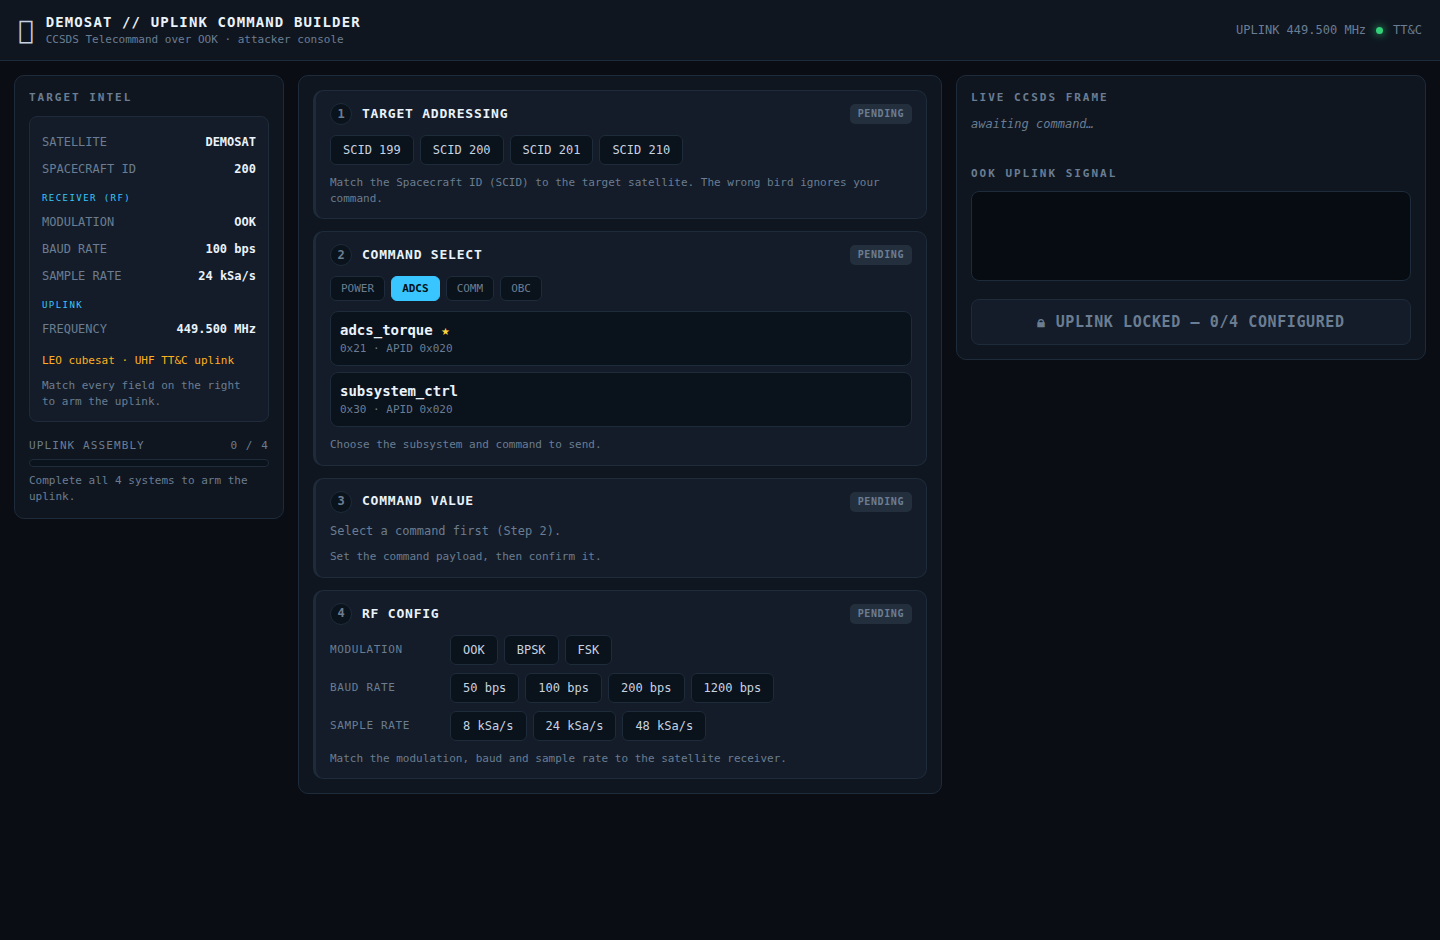
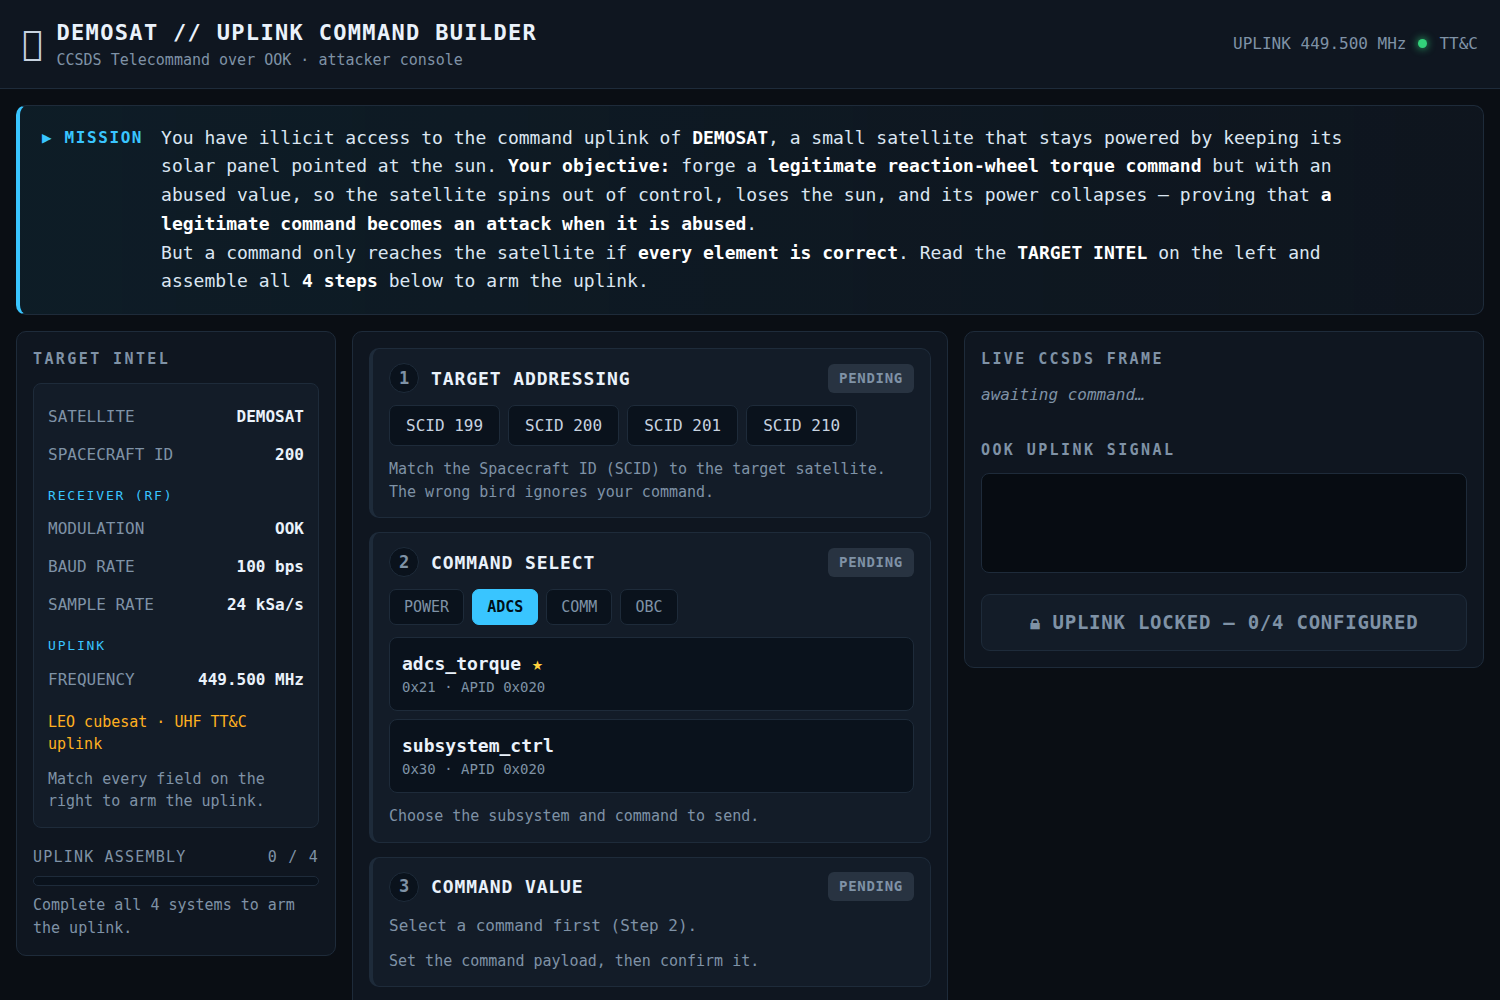
UPDATE 생성기 화면: 전체 글자 크기 확대 및 미션 브리핑 스타일

diff --git a/scenario2-uplink-attack/packet-generator/webapp/static/style.css b/scenario2-uplink-attack/packet-generator/webapp/static/style.css
@@ -1,137 +1,145 @@
 :root{
   --bg:#0a0e14; --panel:#0f1620; --panel2:#131c28; --line:#1e2b3a;
-  --ink:#c7d3e0; --dim:#6b7d92; --accent:#39c5ff; --amber:#ffb020;
+  --ink:#c7d3e0; --dim:#7f92a6; --accent:#39c5ff; --amber:#ffb020;
   --danger:#ff3b4e; --ok:#33d17a; --star:#ffd23f;
   --f-pre:#5a6b7d; --f-tc:#39c5ff; --f-sp:#8a7dff; --f-op:#33d17a;
   --f-pl:#ffb020; --f-crc:#ff6ad5;
   --mono:'SFMono-Regular',ui-monospace,'Cascadia Code','Consolas',monospace;
 }
 *{box-sizing:border-box}
-body{margin:0;background:var(--bg);color:var(--ink);font-family:var(--mono);font-size:14px;line-height:1.4}
-h2{font-size:11px;letter-spacing:.18em;color:var(--dim);margin:0 0 10px;font-weight:600}
+body{margin:0;background:var(--bg);color:var(--ink);font-family:var(--mono);font-size:18px;line-height:1.5}
+h2{font-size:15px;letter-spacing:.16em;color:var(--dim);margin:0 0 12px;font-weight:700}
 .hidden{display:none!important}
-.muted{color:var(--dim);font-size:12px}
+.muted{color:var(--dim);font-size:16px}
 
 .topbar{display:flex;justify-content:space-between;align-items:center;
-  padding:12px 18px;border-bottom:1px solid var(--line);background:var(--panel)}
-.brand{display:flex;gap:12px;align-items:center}
-.sat{font-size:26px}
-.title{font-weight:700;letter-spacing:.08em;color:#eaf2fb}
-.sub{font-size:11px;color:var(--dim)}
-.linkinfo{display:flex;gap:10px;align-items:center;font-size:12px;color:var(--dim)}
-.linkinfo .dot{width:7px;height:7px;border-radius:50%;background:var(--ok);box-shadow:0 0 8px var(--ok)}
+  padding:16px 22px;border-bottom:1px solid var(--line);background:var(--panel)}
+.brand{display:flex;gap:14px;align-items:center}
+.sat{font-size:34px}
+.title{font-weight:700;letter-spacing:.06em;color:#eaf2fb;font-size:22px}
+.sub{font-size:15px;color:var(--dim)}
+.linkinfo{display:flex;gap:12px;align-items:center;font-size:16px;color:var(--dim)}
+.linkinfo .dot{width:9px;height:9px;border-radius:50%;background:var(--ok);box-shadow:0 0 8px var(--ok)}
 
-.grid{display:grid;grid-template-columns:270px 1fr 470px;gap:14px;padding:14px;align-items:start}
-.panel{background:var(--panel);border:1px solid var(--line);border-radius:10px;padding:14px}
+/* ── MISSION briefing ── */
+.mission{display:flex;gap:18px;align-items:flex-start;margin:16px 16px 0;padding:18px 22px;
+  background:linear-gradient(90deg,rgba(57,197,255,.08),rgba(19,28,40,.5));
+  border:1px solid var(--line);border-left:4px solid var(--accent);border-radius:10px}
+.mtag{font-size:16px;font-weight:800;letter-spacing:.1em;color:var(--accent);white-space:nowrap;padding-top:2px}
+.mtext{font-size:18px;line-height:1.6;color:#dbe6f2;max-width:1200px}
+.mtext b{color:#fff}
+
+.grid{display:grid;grid-template-columns:320px 1fr 520px;gap:16px;padding:16px;align-items:start}
+.panel{background:var(--panel);border:1px solid var(--line);border-radius:10px;padding:16px}
 
 /* ── TARGET INTEL dossier ── */
-.dossier{background:var(--panel2);border:1px solid var(--line);border-radius:8px;padding:12px}
-.drow{display:flex;justify-content:space-between;padding:5px 0;font-size:12px}
+.dossier{background:var(--panel2);border:1px solid var(--line);border-radius:8px;padding:14px}
+.drow{display:flex;justify-content:space-between;padding:7px 0;font-size:16px}
 .drow span{color:var(--dim)} .drow b{color:#eaf2fb}
-.dsep{margin:10px 0 4px;font-size:9px;letter-spacing:.16em;color:var(--accent)}
-.dnote{margin-top:10px;font-size:11px;color:var(--amber)}
+.dsep{margin:12px 0 5px;font-size:13px;letter-spacing:.14em;color:var(--accent)}
+.dnote{margin-top:12px;font-size:15px;color:var(--amber)}
 .dnote.dim{color:var(--dim)}
-.progresswrap{margin-top:16px}
-.prow{display:flex;justify-content:space-between;font-size:11px;color:var(--dim);letter-spacing:.1em}
-.prail{height:8px;background:#0a121c;border:1px solid var(--line);border-radius:5px;margin:6px 0;overflow:hidden}
+.progresswrap{margin-top:18px}
+.prow{display:flex;justify-content:space-between;font-size:15px;color:var(--dim);letter-spacing:.08em}
+.prail{height:10px;background:#0a121c;border:1px solid var(--line);border-radius:6px;margin:8px 0;overflow:hidden}
 .prail > i{display:block;height:100%;width:0;background:linear-gradient(90deg,var(--accent),var(--ok));transition:.3s}
-.phint{font-size:11px;color:var(--dim)}
+.phint{font-size:15px;color:var(--dim)}
 
 /* ── step cards ── */
-.steps #stepList{display:flex;flex-direction:column;gap:12px}
-.step{border:1px solid var(--line);border-radius:10px;padding:12px 14px;background:var(--panel2);
-  border-left:3px solid var(--line)}
+.steps #stepList{display:flex;flex-direction:column;gap:14px}
+.step{border:1px solid var(--line);border-radius:10px;padding:14px 16px;background:var(--panel2);
+  border-left:4px solid var(--line)}
 .step.done{border-left-color:var(--ok)}
 .step.mismatch{border-left-color:var(--danger)}
-.shead{display:flex;align-items:center;gap:10px;margin-bottom:10px}
-.snum{width:22px;height:22px;border-radius:50%;background:#0a121c;border:1px solid var(--line);
-  display:flex;align-items:center;justify-content:center;font-size:12px;font-weight:700;color:var(--dim)}
+.shead{display:flex;align-items:center;gap:12px;margin-bottom:12px}
+.snum{width:30px;height:30px;border-radius:50%;background:#0a121c;border:1px solid var(--line);
+  display:flex;align-items:center;justify-content:center;font-size:17px;font-weight:700;color:var(--dim)}
 .step.done .snum{background:var(--ok);color:#001018;border-color:var(--ok)}
 .step.mismatch .snum{background:var(--danger);color:#fff;border-color:var(--danger)}
-.stitle{flex:1;font-weight:700;letter-spacing:.06em;color:#eaf2fb;font-size:13px}
-.pill{font-size:10px;padding:3px 8px;border-radius:5px;letter-spacing:.06em;font-weight:700}
-.pill.pending{background:rgba(107,125,146,.2);color:var(--dim)}
-.pill.ok{background:rgba(51,209,122,.16);color:var(--ok)}
-.pill.bad{background:rgba(255,59,78,.18);color:var(--danger)}
-.sprompt{margin-top:10px;font-size:11px;color:var(--dim)}
+.stitle{flex:1;font-weight:700;letter-spacing:.05em;color:#eaf2fb;font-size:18px}
+.pill{font-size:14px;padding:4px 11px;border-radius:6px;letter-spacing:.05em;font-weight:700}
+.pill.pending{background:rgba(127,146,166,.2);color:var(--dim)}
+.pill.ok{background:rgba(51,209,122,.18);color:var(--ok)}
+.pill.bad{background:rgba(255,59,78,.2);color:var(--danger)}
+.sprompt{margin-top:12px;font-size:15px;color:var(--dim)}
 
 /* chips (SCID / RF options) */
-.chips{display:flex;flex-wrap:wrap;gap:6px}
-.chip{padding:7px 12px;border:1px solid var(--line);border-radius:6px;background:#0a121c;
-  color:var(--ink);font-family:var(--mono);font-size:12px;cursor:pointer}
+.chips{display:flex;flex-wrap:wrap;gap:8px}
+.chip{padding:10px 16px;border:1px solid var(--line);border-radius:7px;background:#0a121c;
+  color:var(--ink);font-family:var(--mono);font-size:16px;cursor:pointer}
 .chip:hover{border-color:var(--accent)}
 .chip.sel{background:var(--accent);color:#001018;border-color:var(--accent);font-weight:700}
-.rfrow{display:flex;align-items:center;gap:10px;margin-bottom:8px}
-.rflabel{width:110px;font-size:11px;color:var(--dim);letter-spacing:.06em}
+.rfrow{display:flex;align-items:center;gap:12px;margin-bottom:10px}
+.rflabel{width:130px;font-size:15px;color:var(--dim);letter-spacing:.05em}
 
 /* command catalog (step 2) */
-.tabs{display:flex;flex-wrap:wrap;gap:6px;margin-bottom:10px}
-.tab{padding:5px 10px;border:1px solid var(--line);border-radius:6px;cursor:pointer;font-size:11px;
+.tabs{display:flex;flex-wrap:wrap;gap:8px;margin-bottom:12px}
+.tab{padding:8px 14px;border:1px solid var(--line);border-radius:7px;cursor:pointer;font-size:15px;
   color:var(--dim);background:#0a121c;font-family:var(--mono)}
 .tab.active{color:#001018;background:var(--accent);border-color:var(--accent);font-weight:700}
-.cmdlist{display:flex;flex-direction:column;gap:6px}
-.cmd{padding:9px;border:1px solid var(--line);border-radius:8px;cursor:pointer;background:#0a121c}
+.cmdlist{display:flex;flex-direction:column;gap:8px}
+.cmd{padding:12px;border:1px solid var(--line);border-radius:8px;cursor:pointer;background:#0a121c}
 .cmd:hover{border-color:var(--accent)}
 .cmd.sel{border-color:var(--accent);box-shadow:inset 0 0 0 1px var(--accent)}
-.cmd .n{font-weight:700;color:#eaf2fb} .cmd .o{font-size:11px;color:var(--dim)}
+.cmd .n{font-weight:700;color:#eaf2fb;font-size:18px} .cmd .o{font-size:14px;color:var(--dim)}
 .star{color:var(--star)}
 
 /* value (step 3) */
-.vhead{font-size:15px;font-weight:700;color:#eaf2fb;margin-bottom:4px}
-.fields{margin-top:14px;display:flex;flex-direction:column;gap:18px}
-.field .flabel{display:flex;justify-content:space-between;margin-bottom:6px}
-.field .fk{color:var(--accent)} .field .fv{font-size:20px;font-weight:700;color:#eaf2fb}
+.vhead{font-size:20px;font-weight:700;color:#eaf2fb;margin-bottom:5px}
+.fields{margin-top:16px;display:flex;flex-direction:column;gap:20px}
+.field .flabel{display:flex;justify-content:space-between;margin-bottom:8px}
+.field .fk{color:var(--accent);font-size:16px} .field .fv{font-size:28px;font-weight:700;color:#eaf2fb}
 .field .fv.bad{color:var(--danger)}
-input[type=range]{width:100%;-webkit-appearance:none;height:8px;border-radius:5px;outline:none;background:#0a121c}
-input[type=range]::-webkit-slider-thumb{-webkit-appearance:none;width:20px;height:20px;border-radius:50%;
-  background:#eaf2fb;border:3px solid var(--accent);cursor:pointer}
-.zonebar{display:flex;height:6px;border-radius:4px;overflow:hidden;margin-top:6px}
+input[type=range]{width:100%;-webkit-appearance:none;height:10px;border-radius:6px;outline:none;background:#0a121c}
+input[type=range]::-webkit-slider-thumb{-webkit-appearance:none;width:26px;height:26px;border-radius:50%;
+  background:#eaf2fb;border:4px solid var(--accent);cursor:pointer}
+.zonebar{display:flex;height:8px;border-radius:5px;overflow:hidden;margin-top:8px}
 .zone-safe{background:var(--ok)}.zone-danger{background:var(--danger)}
-.ticks{display:flex;justify-content:space-between;font-size:10px;color:var(--dim);margin-top:4px}
-input[type=number]{background:#0a121c;border:1px solid var(--line);color:#eaf2fb;padding:8px;border-radius:6px;
-  font-family:var(--mono);width:120px;font-size:16px}
-.toggle{display:inline-flex;gap:8px;align-items:center;cursor:pointer}
-.toggle .sw{width:44px;height:24px;border-radius:12px;background:var(--line);position:relative;transition:.15s}
-.toggle .sw::after{content:'';position:absolute;top:3px;left:3px;width:18px;height:18px;border-radius:50%;background:#eaf2fb;transition:.15s}
-.toggle.on .sw{background:var(--ok)}.toggle.on .sw::after{left:23px}
-.confirm{margin-top:14px;padding:9px 16px;border:1px solid var(--accent);border-radius:7px;background:transparent;
-  color:var(--accent);font-family:var(--mono);font-weight:700;cursor:pointer}
+.ticks{display:flex;justify-content:space-between;font-size:14px;color:var(--dim);margin-top:5px}
+input[type=number]{background:#0a121c;border:1px solid var(--line);color:#eaf2fb;padding:10px;border-radius:7px;
+  font-family:var(--mono);width:150px;font-size:20px}
+.toggle{display:inline-flex;gap:10px;align-items:center;cursor:pointer;font-size:16px}
+.toggle .sw{width:52px;height:28px;border-radius:14px;background:var(--line);position:relative;transition:.15s}
+.toggle .sw::after{content:'';position:absolute;top:3px;left:3px;width:22px;height:22px;border-radius:50%;background:#eaf2fb;transition:.15s}
+.toggle.on .sw{background:var(--ok)}.toggle.on .sw::after{left:27px}
+.confirm{margin-top:16px;padding:11px 20px;border:1px solid var(--accent);border-radius:8px;background:transparent;
+  color:var(--accent);font-family:var(--mono);font-weight:700;font-size:16px;cursor:pointer}
 .confirm:hover{background:rgba(57,197,255,.12)}
 .confirm.done{background:var(--ok);border-color:var(--ok);color:#001018}
-.danger{margin-top:14px;padding:10px;border:1px solid var(--danger);border-radius:8px;
-  background:rgba(255,59,78,.1);color:#ff9aa5;font-weight:700;font-size:12px;animation:pulse 1.1s infinite}
+.danger{margin-top:16px;padding:12px;border:1px solid var(--danger);border-radius:8px;
+  background:rgba(255,59,78,.1);color:#ff9aa5;font-weight:700;font-size:16px;animation:pulse 1.1s infinite}
 @keyframes pulse{50%{box-shadow:0 0 16px rgba(255,59,78,.5)}}
-.effect{margin-top:12px;padding:10px;border-left:3px solid var(--amber);background:#0a121c;
-  border-radius:0 8px 8px 0;font-size:12px}
+.effect{margin-top:14px;padding:12px;border-left:4px solid var(--amber);background:#0a121c;
+  border-radius:0 8px 8px 0;font-size:16px}
 .effect b{color:var(--amber)}
 
 /* frame breakdown */
-.breakdown{display:flex;flex-wrap:wrap;gap:6px;min-height:40px}
-.await{color:var(--dim);font-size:12px;font-style:italic}
-.seg{border:1px solid var(--line);border-radius:8px;padding:7px 8px;background:var(--panel2)}
-.seg .sl{font-size:9px;letter-spacing:.06em;color:var(--dim);margin-bottom:5px;white-space:nowrap;text-transform:uppercase}
-.seg .bytes{display:flex;gap:4px}
-.byte{font-size:12px;padding:3px 5px;border-radius:4px;background:#0a121c;color:#eaf2fb;cursor:default;border-bottom:2px solid transparent}
+.breakdown{display:flex;flex-wrap:wrap;gap:8px;min-height:44px}
+.await{color:var(--dim);font-size:16px;font-style:italic}
+.seg{border:1px solid var(--line);border-radius:8px;padding:9px 10px;background:var(--panel2)}
+.seg .sl{font-size:12px;letter-spacing:.05em;color:var(--dim);margin-bottom:6px;white-space:nowrap;text-transform:uppercase}
+.seg .bytes{display:flex;gap:5px}
+.byte{font-size:16px;padding:4px 7px;border-radius:5px;background:#0a121c;color:#eaf2fb;cursor:default;border-bottom:3px solid transparent}
 .f-preamble .byte{border-color:var(--f-pre)} .f-preamble .sl{color:var(--f-pre)}
 .f-tc_header .byte{border-color:var(--f-tc)} .f-tc_header .sl{color:var(--f-tc)}
 .f-sp_header .byte{border-color:var(--f-sp)} .f-sp_header .sl{color:var(--f-sp)}
 .f-opcode .byte{border-color:var(--f-op)} .f-opcode .sl{color:var(--f-op)}
 .f-payload .byte{border-color:var(--f-pl)} .f-payload .sl{color:var(--f-pl)}
 .f-crc .byte{border-color:var(--f-crc)} .f-crc .sl{color:var(--f-crc)}
-.metaline{margin-top:10px;font-size:11px;color:var(--dim)}
+.metaline{margin-top:12px;font-size:15px;color:var(--dim)}
 
-#wave{width:100%;height:90px;background:#070c12;border:1px solid var(--line);border-radius:8px;margin-bottom:12px}
+#wave{width:100%;height:100px;background:#070c12;border:1px solid var(--line);border-radius:8px;margin-bottom:14px}
 
-.genbtn{width:100%;padding:13px;border:none;border-radius:8px;cursor:pointer;font-family:var(--mono);
-  font-weight:700;font-size:15px;letter-spacing:.04em}
+.genbtn{width:100%;padding:16px;border:none;border-radius:9px;cursor:pointer;font-family:var(--mono);
+  font-weight:700;font-size:19px;letter-spacing:.04em}
 .genbtn.locked{background:#131c28;color:var(--dim);border:1px solid var(--line);cursor:not-allowed}
 .genbtn.armed{background:linear-gradient(90deg,var(--danger),#c02234);color:#fff}
 .genbtn.armed:hover{filter:brightness(1.1)}
-.result{margin-top:12px;padding:12px;border:1px solid var(--ok);border-radius:8px;background:rgba(51,209,122,.08);font-size:12px}
+.result{margin-top:14px;padding:14px;border:1px solid var(--ok);border-radius:8px;background:rgba(51,209,122,.08);font-size:16px}
 .result a{color:var(--accent)} .result .path{color:#eaf2fb;word-break:break-all}
 
 .tooltip{position:fixed;z-index:50;background:#050a10;border:1px solid var(--accent);border-radius:6px;
-  padding:8px 10px;font-size:11px;color:var(--ink);max-width:240px;pointer-events:none;box-shadow:0 6px 20px rgba(0,0,0,.5)}
+  padding:10px 12px;font-size:15px;color:var(--ink);max-width:280px;pointer-events:none;box-shadow:0 6px 20px rgba(0,0,0,.5)}
 .tooltip b{color:var(--accent)}
 
-@media(max-width:1200px){.grid{grid-template-columns:1fr}}
+@media(max-width:1300px){.grid{grid-template-columns:1fr}.mtext{max-width:none}}